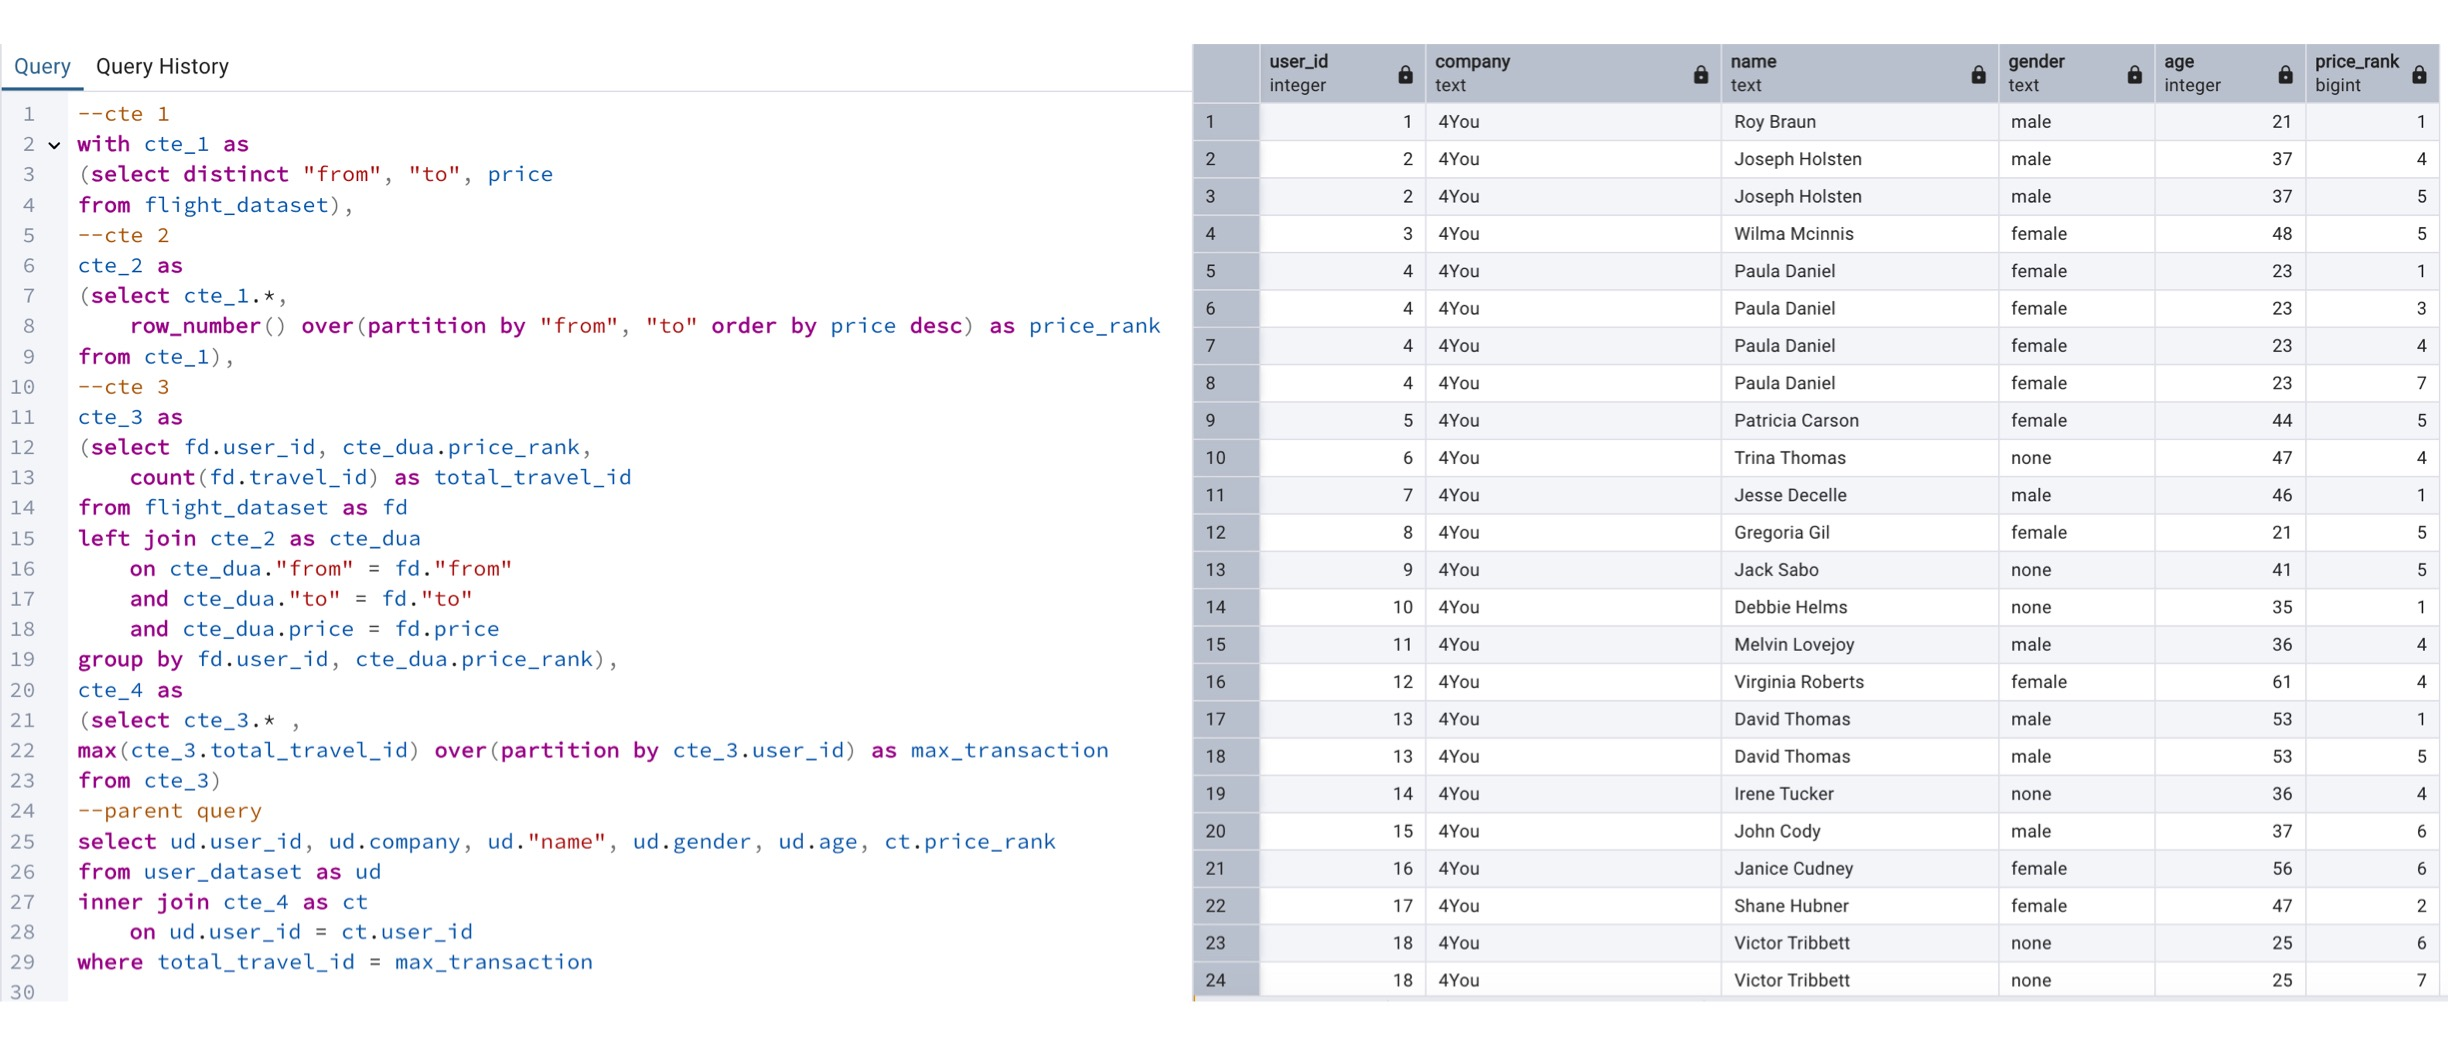
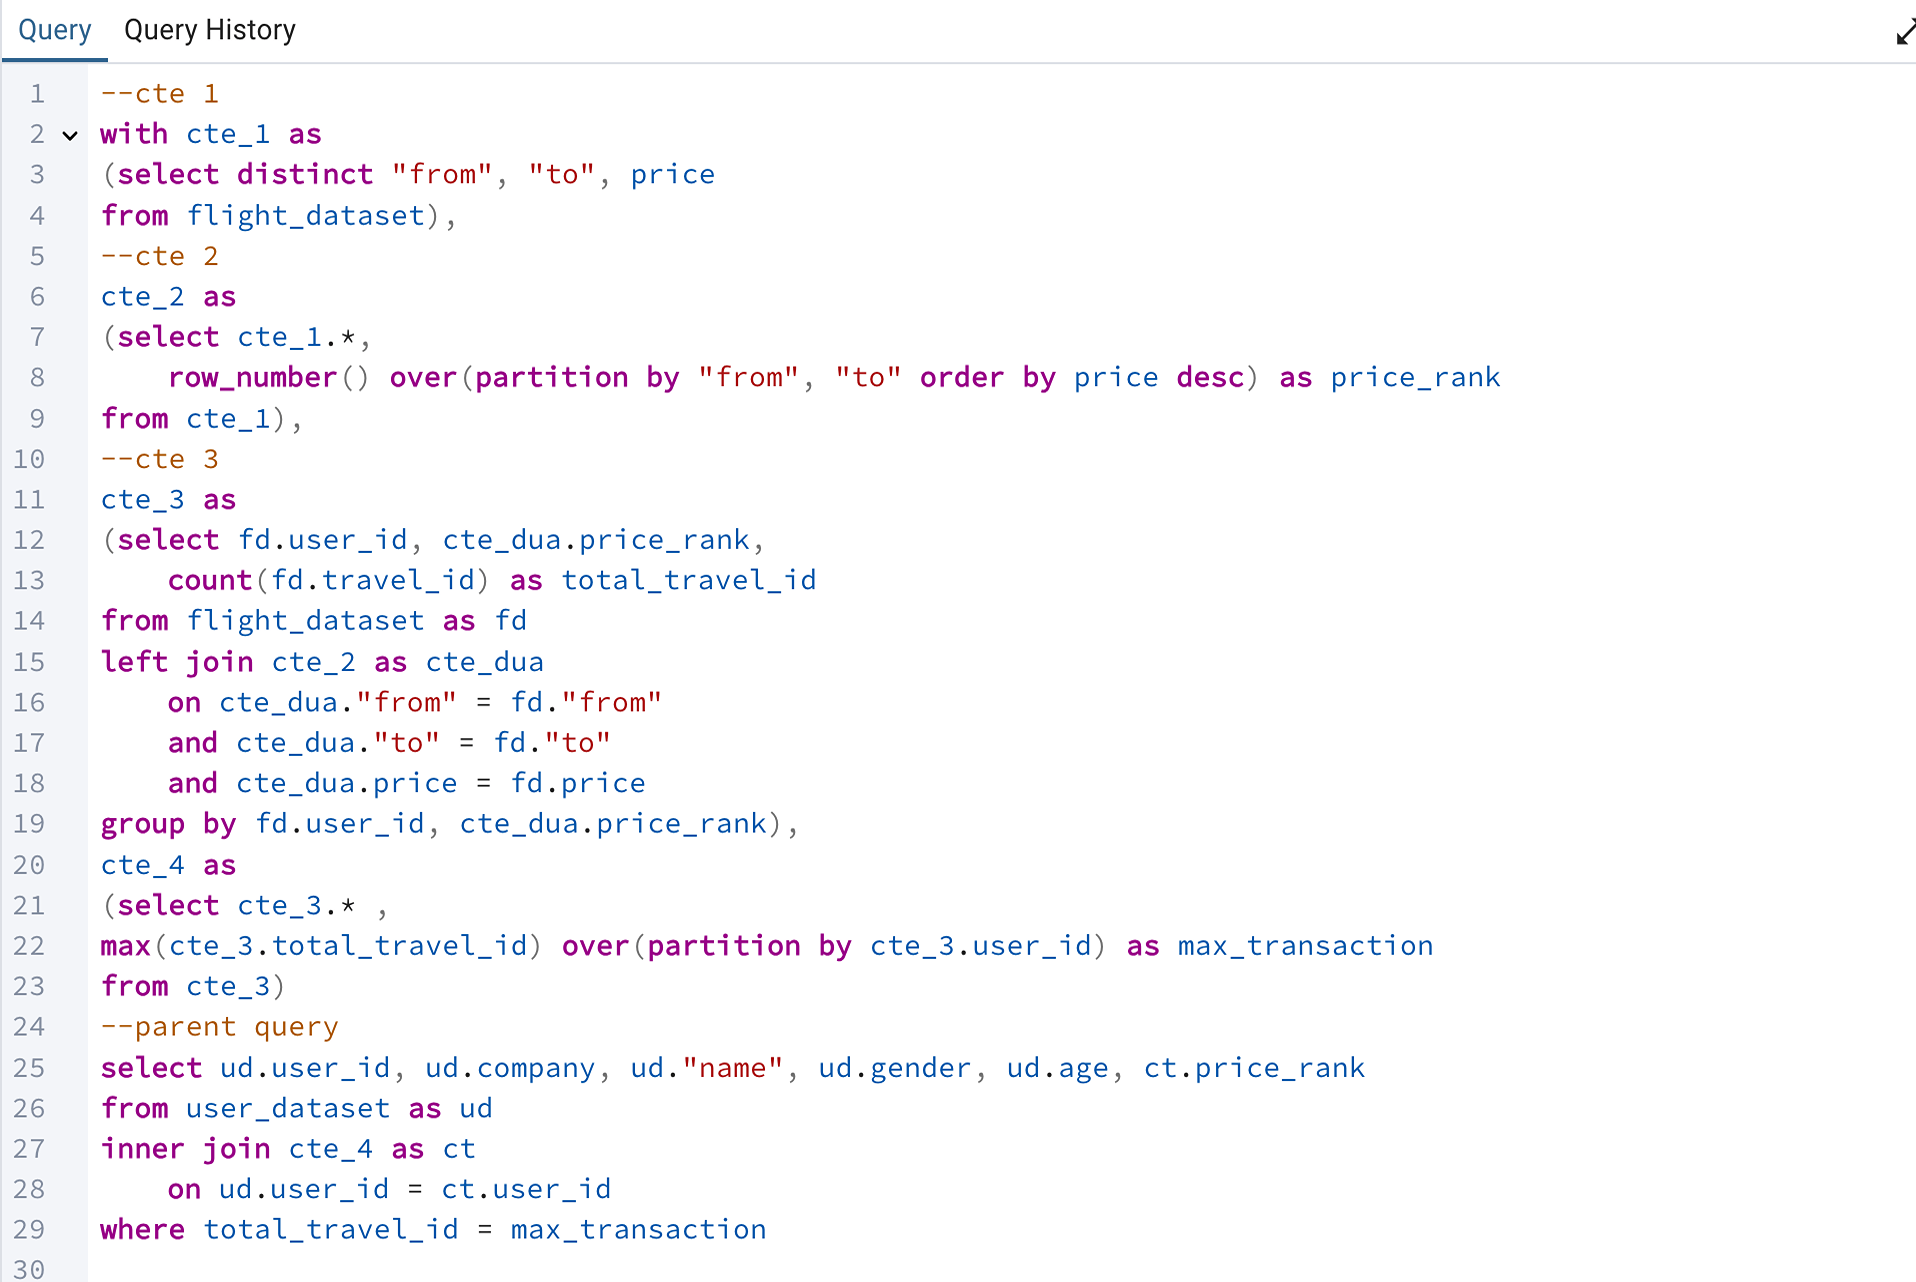
Update files or changes description

diff --git a/index.html b/index.html
@@ -110,7 +110,7 @@
             <img src="assets/img/my-profile-img.jpg" class="img-fluid" alt="">
           </div>
           <div class="col-lg-8 content">
-            <h2>Implementation System &amp; Data ANalyst.</h2>
+            <h2>Implementation System &amp; Data Analyst.</h2>
             <p class="fst-italic py-3">
               Passionate Data Analyst skilled in SQL, Power BI, Excel, and Python, with experience turning data into actionable insights. Specializing in process optimization and data-driven solutions, I am dedicated to enhancing efficiency and supporting strategic decisions.
             </p>
@@ -322,7 +322,7 @@
                 <img src="assets/img/portfolio/excel.jpg" class="img-fluid" alt="">
                 <div class="portfolio-info">
                   <h4>SpreadSheet/Excel</h4>
-                  <p>Lorem ipsum, dolor sit amet consectetur</p>
+                  <p></p>
                   <a href="assets/img/portfolio/excel.jpg" title="excel" data-gallery="portfolio-gallery-app" class="glightbox preview-link"><i class="bi bi-zoom-in"></i></a>
                   <a href="portfolio-details-spreadsheet.html" title="More Details" class="details-link"><i class="bi bi-link-45deg"></i></a>
                 </div>
@@ -334,7 +334,7 @@
                 <img src="assets/img/portfolio/SQL.jpg" class="img-fluid" alt="">
                 <div class="portfolio-info">
                   <h4>SQL</h4>
-                  <p>Lorem ipsum, dolor sit amet consectetur</p>
+                  <p></p>
                   <a href="assets/img/portfolio/SQL.jpg" title="Product 1" data-gallery="portfolio-gallery-product" class="glightbox preview-link"><i class="bi bi-zoom-in"></i></a>
                   <a href="portfolio-details-sql.html" title="More Details" class="details-link"><i class="bi bi-link-45deg"></i></a>
                 </div>

diff --git a/portfolio-details-spreadsheet.html b/portfolio-details-spreadsheet.html
@@ -136,16 +136,15 @@
             <div class="portfolio-info" data-aos="fade-up" data-aos-delay="200">
               <h3>Project information</h3>
               <ul>
-                <li><strong>Category</strong>: Web design</li>
-                <li><strong>Client</strong>: ASU Company</li>
-                <li><strong>Project date</strong>: 01 March, 2020</li>
-                <li><strong>Project URL</strong>: <a href="#">www.example.com</a></li>
+                <li><strong>Category</strong>: SpreadSheet</li>
+                <li><strong>Client</strong>: Refocus</li>
+                <li><strong>Project date</strong>: 23 Aprl, 2023</li>
               </ul>
             </div>
             <div class="portfolio-description" data-aos="fade-up" data-aos-delay="300">
-              <h2>Exercitationem repudiandae officiis neque suscipit</h2>
+              <h2>E-commerce Sales Analysis and Visualization</h2>
               <p>
-                Autem ipsum nam porro corporis rerum. Quis eos dolorem eos itaque inventore commodi labore quia quia. Exercitationem repudiandae officiis neque suscipit non officia eaque itaque enim. Voluptatem officia accusantium nesciunt est omnis tempora consectetur dignissimos. Sequi nulla at esse enim cum deserunt eius.
+                In this project, I analyzed e-commerce sales data by calculating total sales for each product category, both by year and overall, using Excel functions like SUMIF and SUMIFS. I created visualizations including bar charts and combo charts to compare sales and quantities across categories. The project involved data cleaning, aggregation, and visualization to support business decisions. Key skills used: data analysis, data cleaning, pivot tables, and data visualization.
               </p>
             </div>
           </div>

diff --git a/portfolio-details-sql.html b/portfolio-details-sql.html
@@ -121,11 +121,7 @@
                 </div>
 
                 <div class="swiper-slide">
-                  <img src="assets/img/portfolio/SQL.jpg" alt="">
-                </div>
-
-                <div class="swiper-slide">
-                  <img src="assets/img/portfolio/SQL.jpg" alt="">
+                  <img src="assets/img/portfolio/sql-2.jpg" alt="">
                 </div>
               </div>
               <div class="swiper-pagination"></div>
